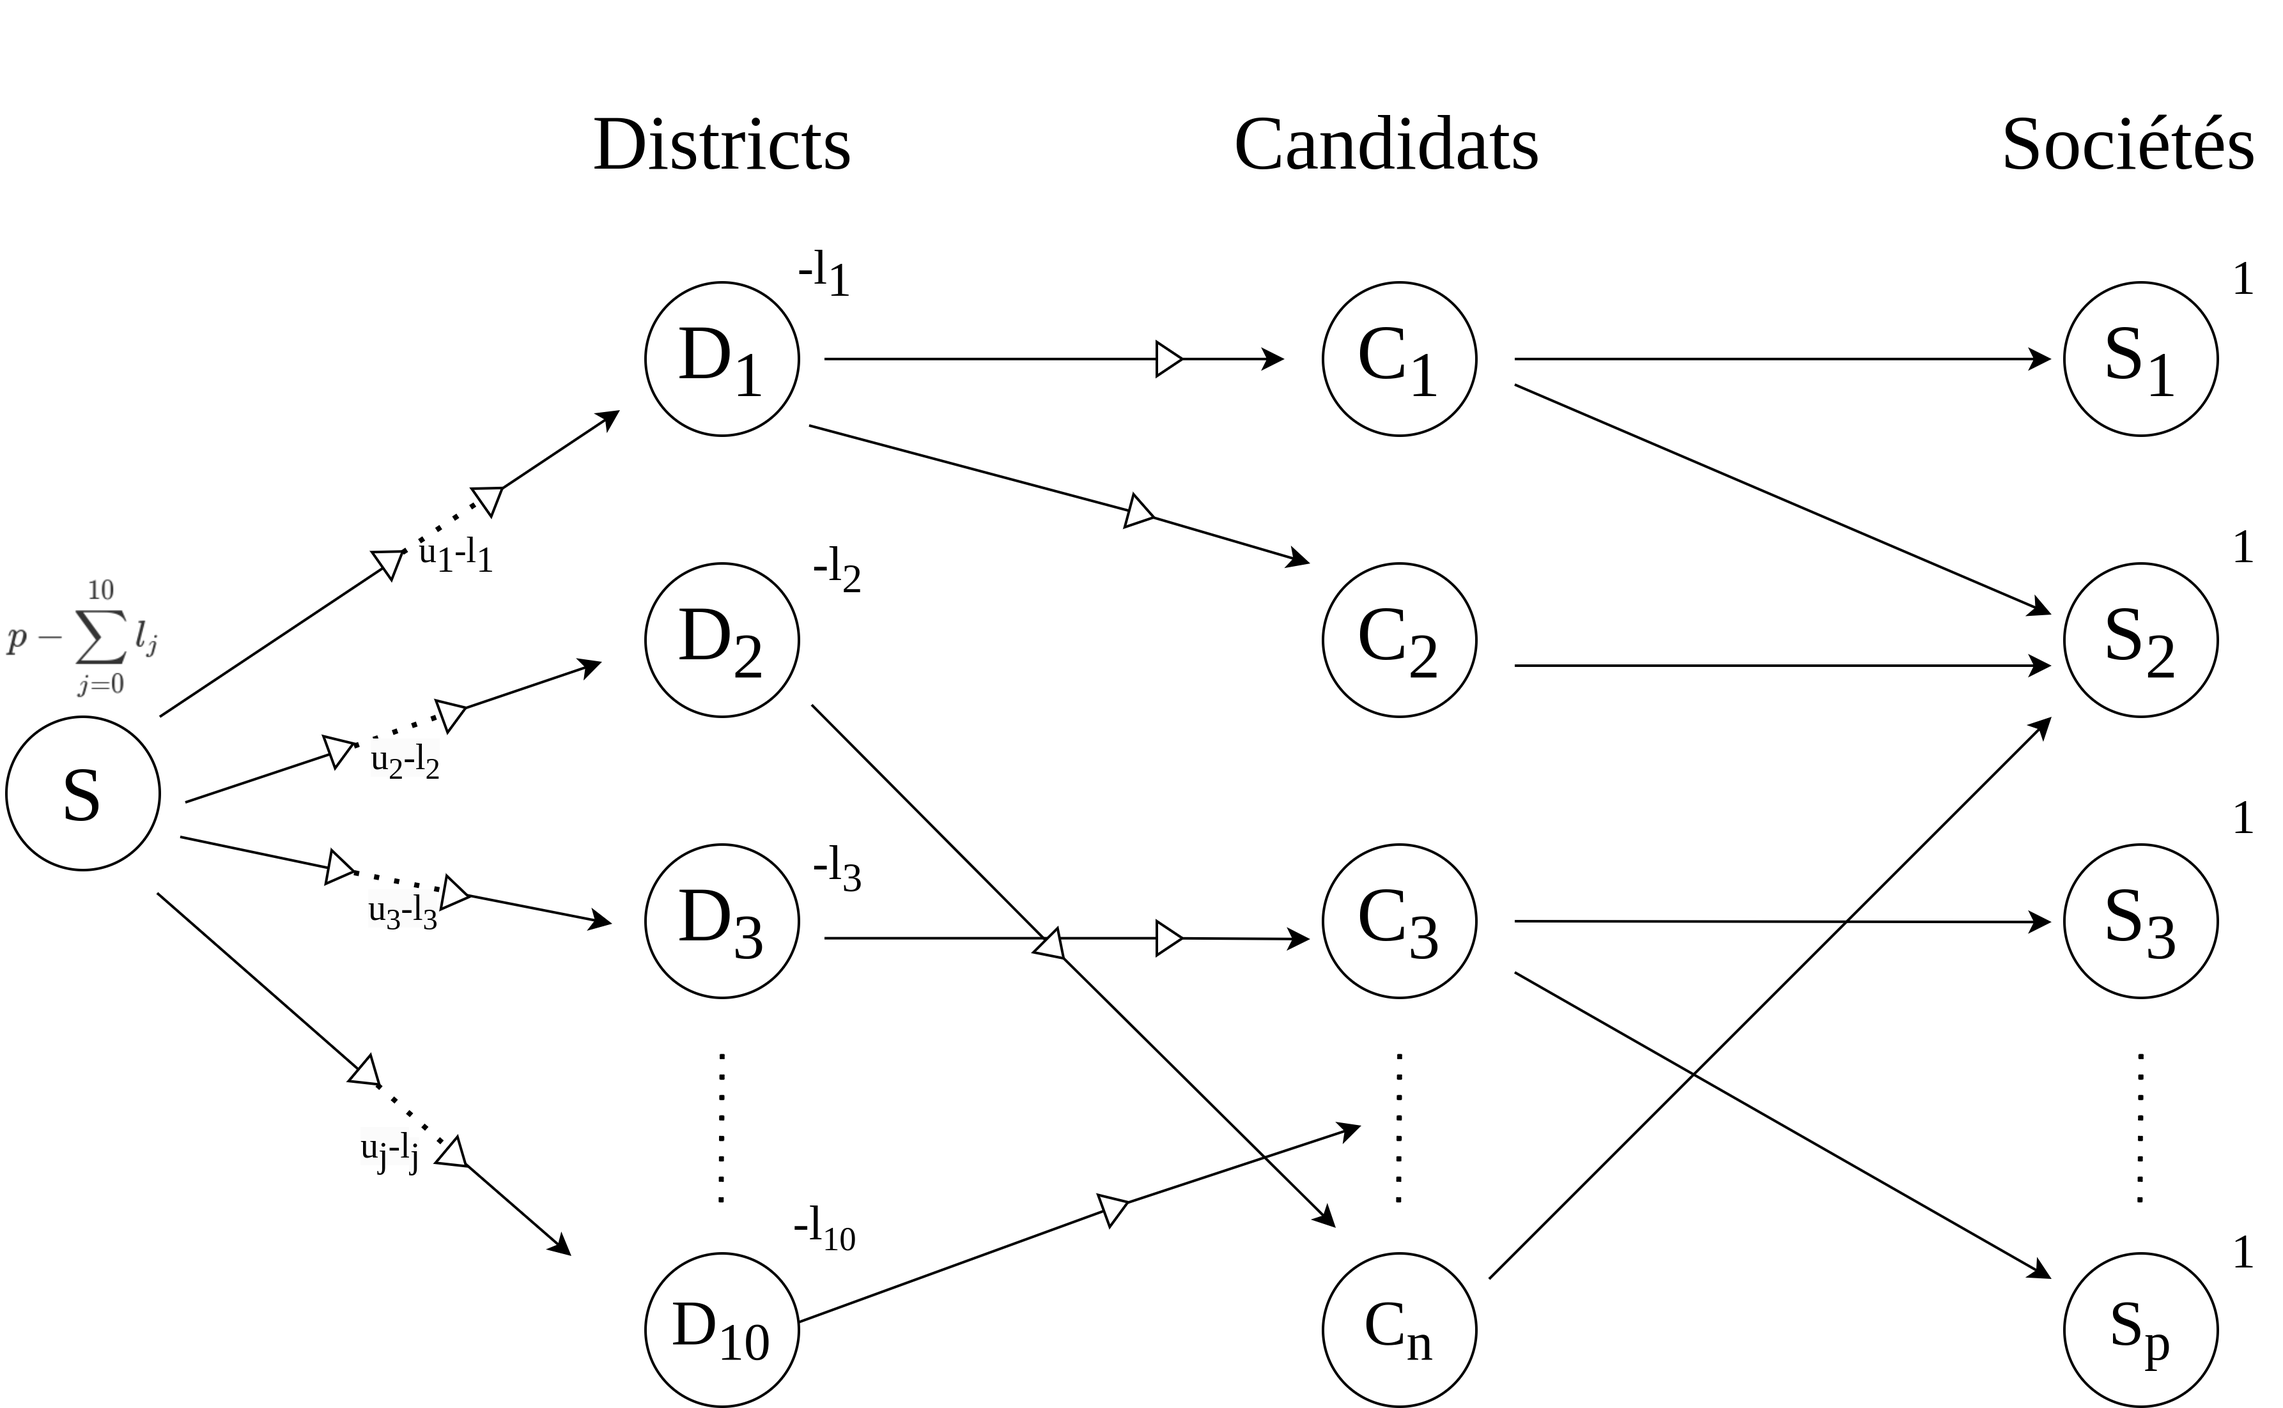
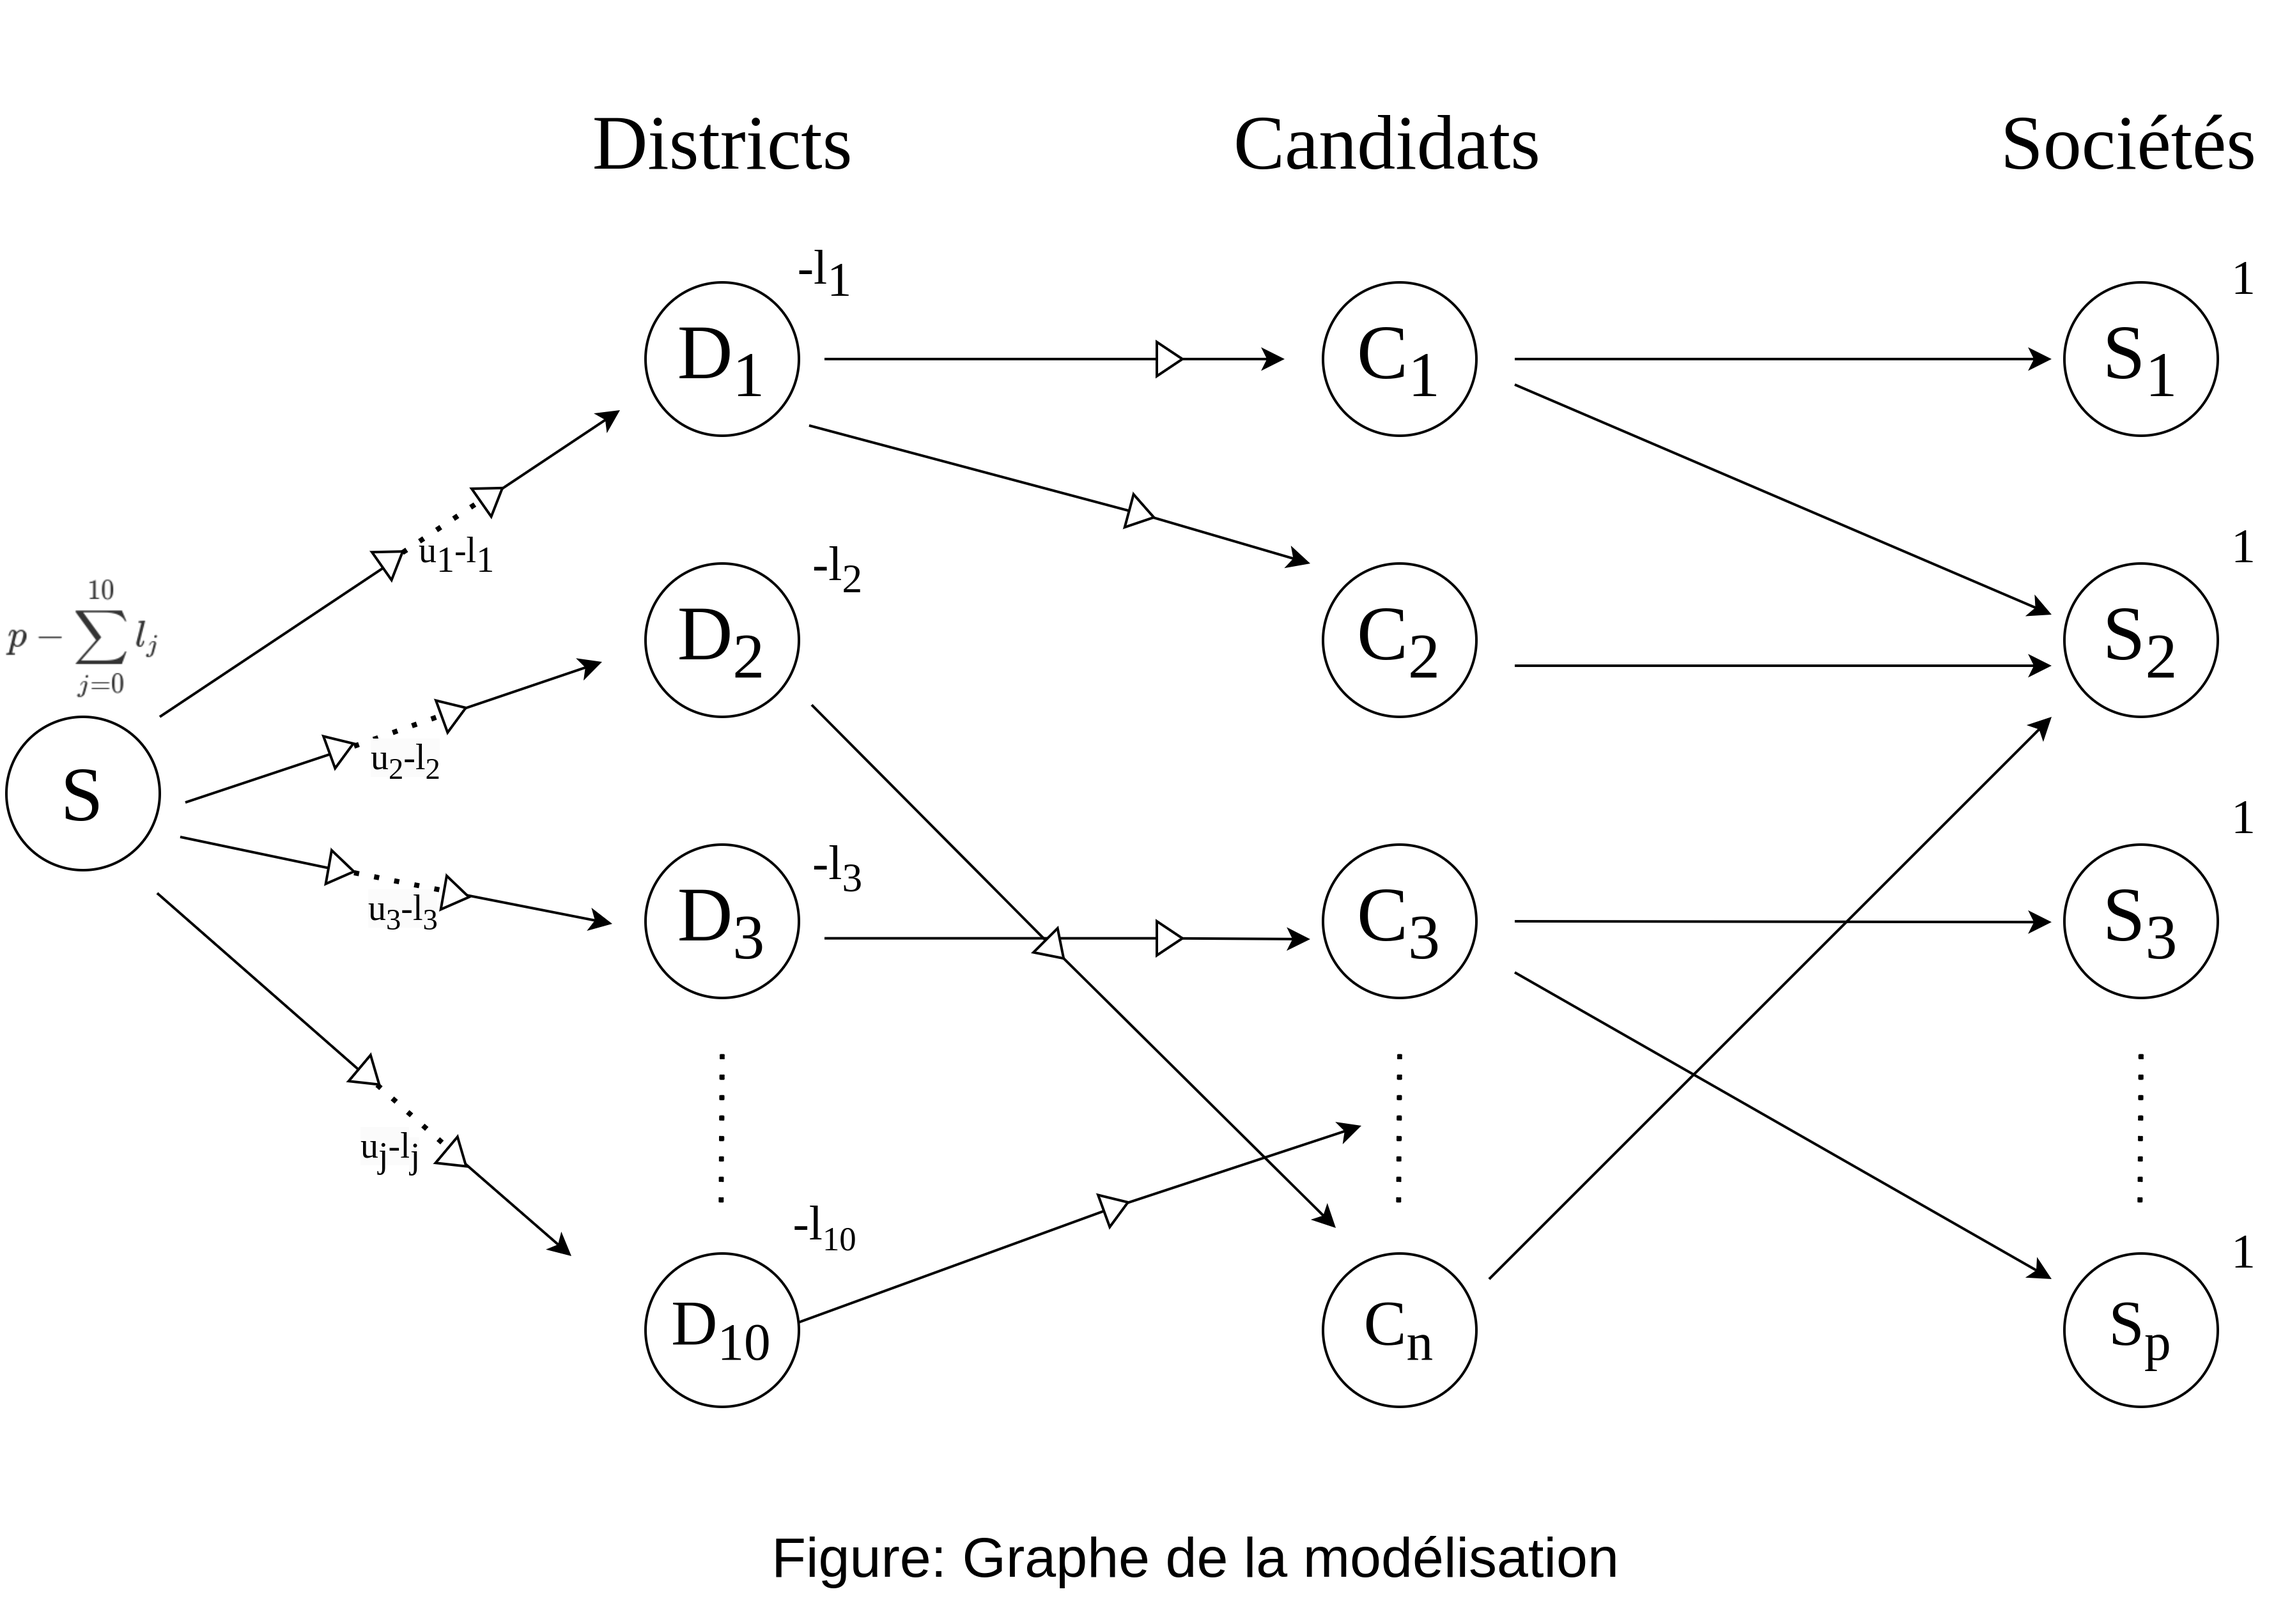
Update diagram with figure title

diff --git a/README.md b/README.md
@@ -6,16 +6,16 @@ On cherche à modéliser le problème de la recherche de l'assemblée des délé
 
 ## Modélisation du problème
 
-Pour cela on utilise le graphe suivant :
+Pour cela, on utilise le graphe suivant :
 - Des sommets $D_j, ~ j = 1,\ldots,10$ représentant les districts, avec une offre de $l_j$ pour garantir le minimum de délégués par district,
 
-- Un sommet source $S$, avec une offre de $\displaystyle p - \sum_{j=0}^{10}l_j$ pour représeter l'offre non donnée par les districts,
+- Un sommet source $S$, avec une offre de $\displaystyle p - \sum_{j=0}^{10}l_j$ pour représenter l'offre non donnée par les districts,
 
-- Des arcs $(S,D_j) ~(\forall j = 1,\ldots,10)$ de capacité $u_j - l_j$ pour permettre d'aller jusqu'au maximum de délégués pour chaque district, mais pas au delà,
+- Des arcs $(S,D_j),~ j = 1,\ldots,10$ de capacité $u_j - l_j$ pour permettre d'aller jusqu'au maximum de délégués pour chaque district, mais pas au-delà,
 
 - Des sommets $C_i, ~ i = 1,\ldots,n$ représentant les candidats,
 
-- Des sommets $S_k, ~ k = 1,\ldots,p$ représentant les sociétés de gymnastique, de demande 1 pour que chaque société aie un délégué,
+- Des sommets $S_k, ~ k = 1,\ldots,p$ représentant les sociétés de gymnastique, de demande 1 pour que chaque société ait un délégué,
 
 - Des arcs $(D_j,C_i)$ lorsque le candidat $i$ habite dans le district $j$, de capacité 1 pour s'assurer que le candidat sera choisi pour une seule place de délégué (dans le cas où il serait membre de plusieurs sociétés),
 
@@ -23,6 +23,7 @@ Pour cela on utilise le graphe suivant :
 
 ![](diagram.png)
 
+
 ## Type de problème
-Il s'agit d'un problème de transbordement. Si, lors de la résolution de ce problème, les demandes sont respectées (c'est-à-dire un délégué par société), alors il existe une solution au problème (c'est-à-dire une sélection admissible de délégués), et les candidats seléctionnés sont ceux où transite un flux (de 1).
+Il s'agit d'un problème de transbordement. Si, lors de la résolution de ce problème, les demandes sont respectées (c'est-à-dire un délégué par société), alors il existe une solution au problème (c'est-à-dire une sélection admissible de délégués), et les candidats sélectionnés sont ceux où transite un flux (de 1).
 
